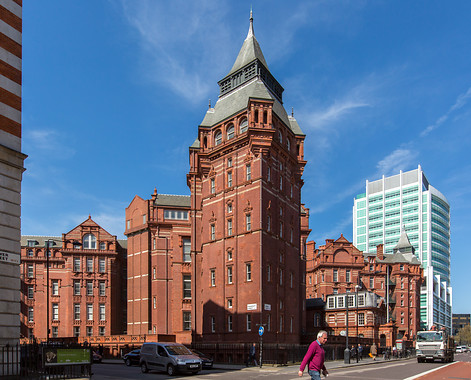
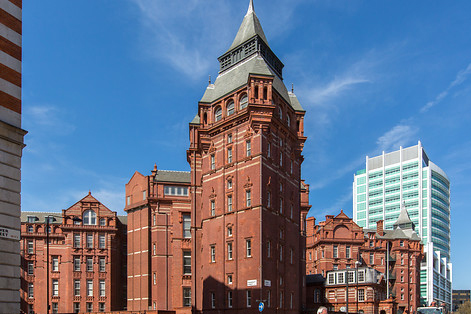
update header image

diff --git a/src/hoverboard-app.html b/src/hoverboard-app.html
@@ -132,9 +132,7 @@
       </app-drawer>
 
       <app-header id="header" effects="parallax-background blend-background fade-effect" condenses shadow reveals>
-        <div class="image-overlay-wrapper" show$="[[app.headerSettings.backgroundImage]]">
-          <div class="image-overlay" fade></div>
-        </div>
+        <div class="image-overlay-wrapper" show$="[[app.headerSettings.backgroundImage]]"></div>
         <toolbar-block
           app="{{app}}"
           primary

diff --git a/docs/tutorials/styling.md b/docs/tutorials/styling.md
@@ -1,7 +1,7 @@
 # Styling
 
 Styling of your app can be found in `src/styles/shared-styles.html`.
- 
+
 ### Colors
 Generate your own color scheme with [Material Palette][Material Palette]
 and click download Polymer
@@ -43,7 +43,7 @@ Additionally it's possible to edit/add tags which is used on speakers and sessio
 --cloud: #3f51b5;
 --community: #e91e63;
 --angular-js: #e0343d;
-... 
+...
 ```
 
 
@@ -56,7 +56,7 @@ in `pages` object. For instance:
   "home": {
     "headerSettings": {
       "backgroundColor": "#03a9f4",
-      "backgroundImage": "/images/backgrounds/home.png",
+      "backgroundImage": "/images/backgrounds/home.jpg",
       "fontColor": "#fff",
       "tabBarColor": "#fff"
     }

diff --git a/docs/tutorials/configure-app.md b/docs/tutorials/configure-app.md
@@ -63,7 +63,7 @@ window.ENV = 'dev';
   "home": {
     "headerSettings": {
       "backgroundColor": "#FF9800",
-      "backgroundImage": "/images/backgrounds/home.png",
+      "backgroundImage": "/images/backgrounds/home.jpg",
       "fontColor": "#fff",
       "tabBarColor": "#fff",
       // data only applicable for the home page
